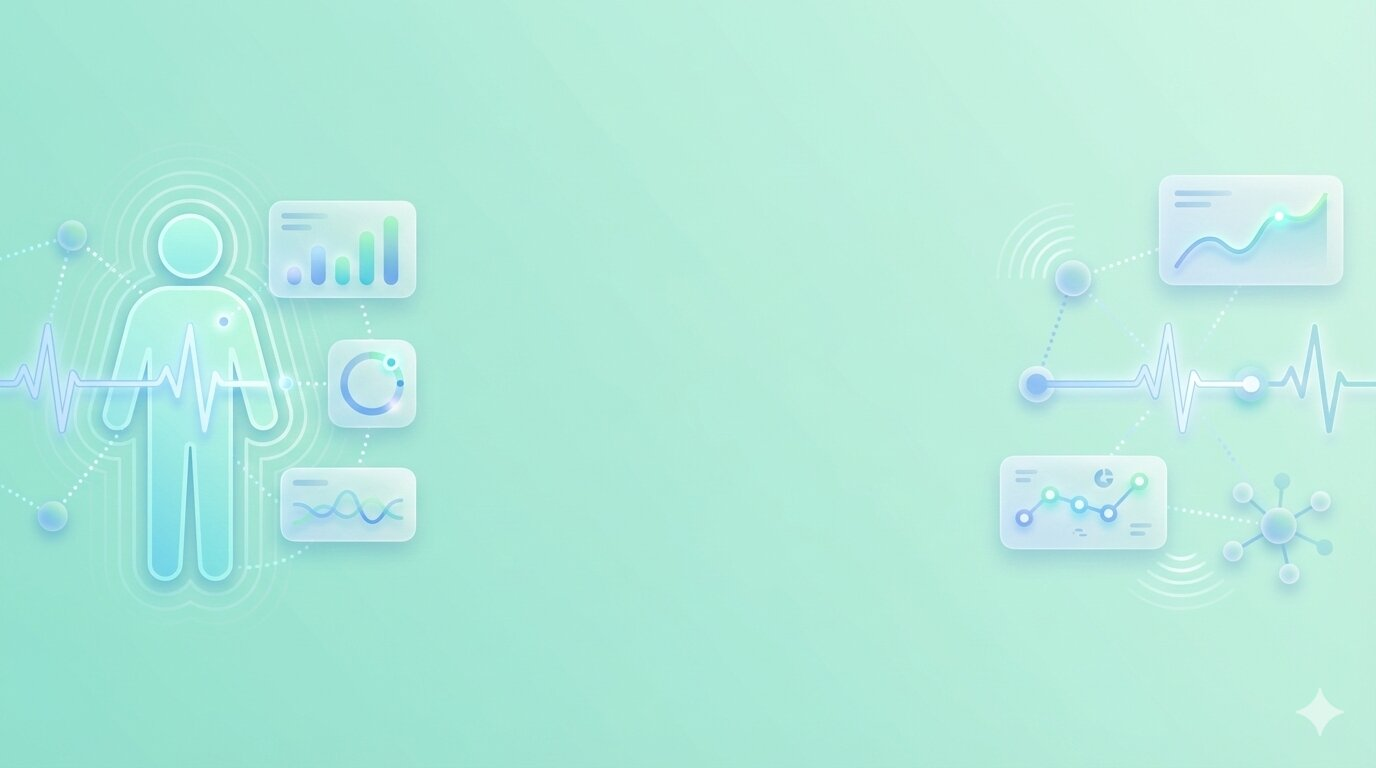
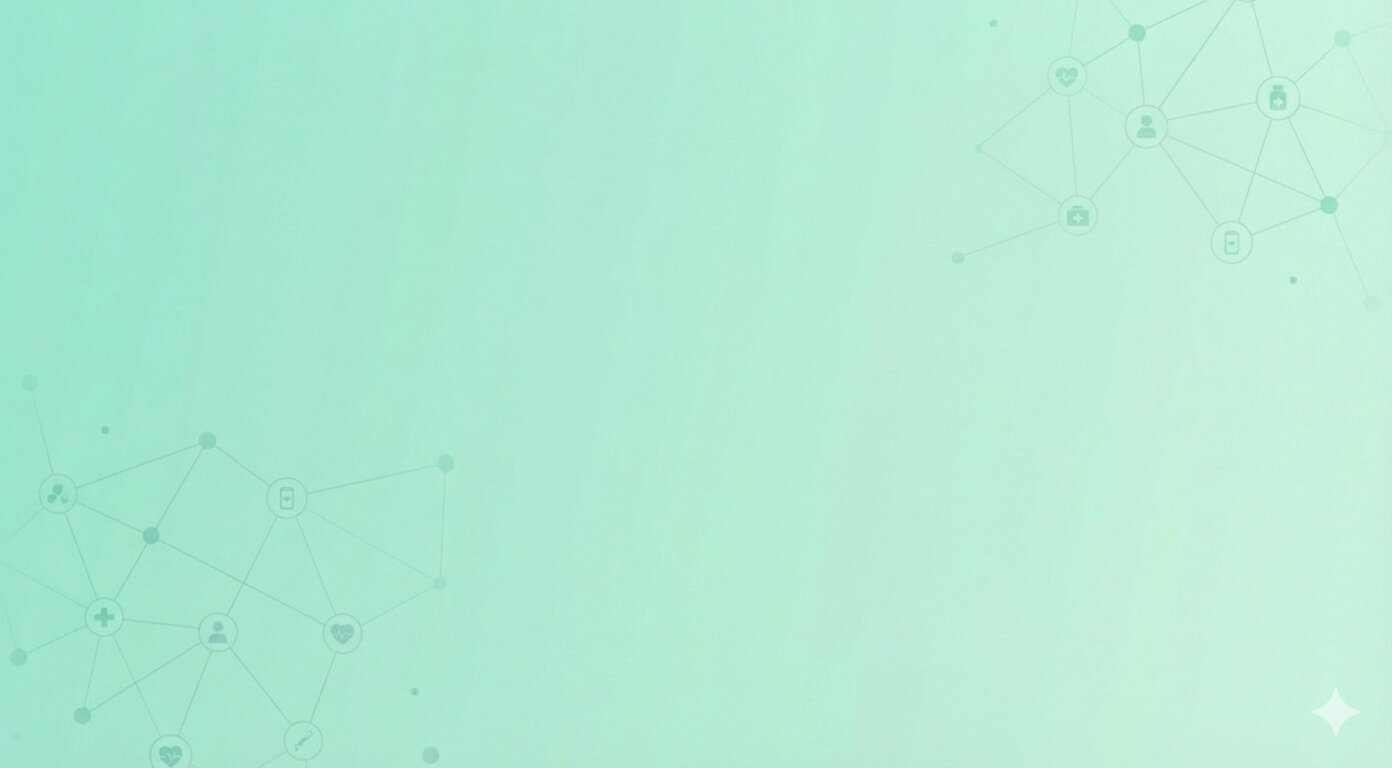
feat: Added grey out based on zod validation, changed bg and left panel, added responsivity to layout for small screens

diff --git a/frontend/src/components/login.tsx b/frontend/src/components/login.tsx
@@ -1,18 +1,47 @@
 "use client";
+
 import { useState } from "react";
 import Image from "next/image";
 import { motion, AnimatePresence, Variants } from "framer-motion";
 import { Logo } from "./logo";
+import { loginSchema } from "@/lib/constants";
 
 export default function LoginPage() {
   const [email, setEmail] = useState("");
   const [password, setPassword] = useState("");
 
+  const [errors, setErrors] = useState<{
+    email?: string;
+    password?: string;
+  }>({});
+
   const animationSpeed = 0.8;
+
+  // ✅ single source of truth (Zod)
+  const isFormValid = loginSchema.safeParse({
+    email,
+    password,
+  }).success;
 
   const handleLogin = (e: React.FormEvent) => {
     e.preventDefault();
-    console.log("Login attempt with:", { email, password });
+
+    const result = loginSchema.safeParse({
+      email,
+      password,
+    });
+
+    if (!result.success) {
+      const fieldErrors = result.error.flatten().fieldErrors;
+      setErrors({
+        email: fieldErrors.email?.[0],
+        password: fieldErrors.password?.[0],
+      });
+      return;
+    }
+
+    setErrors({});
+    console.log("Login attempt with:", result.data);
   };
 
   const containerVariants: Variants = {
@@ -38,18 +67,6 @@ export default function LoginPage() {
     },
   };
 
-  const blobVariants: Variants = {
-    hidden: { scale: 0.8, opacity: 0 },
-    visible: {
-      scale: 1,
-      opacity: 1,
-      transition: {
-        duration: 0.7 * animationSpeed,
-        ease: "easeOut",
-      },
-    },
-  };
-
   const buttonHoverVariants: Variants = {
     rest: { scale: 1 },
     hover: {
@@ -59,30 +76,19 @@ export default function LoginPage() {
     tap: { scale: 0.98 },
   };
 
-  const inputHoverVariants: Variants = {
-    rest: { boxShadow: "0 0 0 rgba(0, 0, 0, 0)" },
-    hover: {
-      boxShadow: "0 4px 12px rgba(0, 0, 0, 0.05)",
-      transition: { duration: 0.3 * animationSpeed, ease: "easeInOut" },
-    },
-  };
-
   return (
-    <main>
+    <main className="relative min-h-screen overflow-hidden">
       <AnimatePresence>
         <motion.div
-          key={"background"}
+          key="background"
           className="absolute inset-0 -z-10"
           initial={{ opacity: 0 }}
           animate={{ opacity: 1 }}
-          transition={{
-            duration: 1.2,
-            ease: "easeOut",
-          }}
+          transition={{ duration: 1.2, ease: "easeOut" }}
         >
           <Image
-            src={"/branding/login-bg.jpg"}
-            alt={`login Background`}
+            src="/branding/login-bg.jpg"
+            alt="Login background"
             fill
             priority
             className="object-cover"
@@ -96,158 +102,110 @@ export default function LoginPage() {
           variants={containerVariants}
           initial="hidden"
           animate="visible"
-          layoutId="authCard"
         >
+          {/* Left panel */}
           <div
-            className="relative w-2/5 p-8 flex flex-col justify-center overflow-hidden bg-cover bg-center"
+            className="hidden md:flex relative w-2/5 p-8 flex-col justify-center bg-cover bg-center"
             style={{
               backgroundImage: "url('/branding/login-div.jpg')",
-
-              backgroundColor: "rgba(0,0,0,0.2)",
               backgroundBlendMode: "overlay",
             }}
-          >
-            <motion.h1
-              className="text-4xl font-mono md:text-6xl lg:text-7xl font-bold text-white mb-4 relative z-10 leading-tight"
-              variants={itemVariants}
-            >
-              Welcome Back!
-            </motion.h1>
-          </div>
+          ></div>
 
-          <style jsx global>{`
-            @keyframes snakeMove {
-              0%,
-              100% {
-                transform: translate(0, 0);
-              }
-              20% {
-                transform: translate(15px, 15px);
-              }
-              40% {
-                transform: translate(-10px, 25px);
-              }
-              60% {
-                transform: translate(10px, 5px);
-              }
-              80% {
-                transform: translate(-5px, -15px);
-              }
-            }
-            @keyframes snakeFloat {
-              0%,
-              100% {
-                transform: translate(0, 0) rotate(0deg);
-              }
-              25% {
-                transform: translate(-15px, -20px) rotate(10deg);
-              }
-              50% {
-                transform: translate(10px, -30px) rotate(-5deg);
-              }
-              75% {
-                transform: translate(5px, -10px) rotate(5deg);
-              }
-            }
-          `}</style>
-
-          {/* Right side with login form */}
+          {/* Right panel */}
           <motion.div
-            className="w-3/5 p-10 flex flex-col justify-center"
+            className="w-full md:w-3/5 p-10 flex flex-col justify-center"
             variants={containerVariants}
           >
-            <div className="flex items-start">
+            <div className="flex items-start mb-6">
               <motion.div
-                className="flex justify-center mb-6"
-                initial={{ opacity: 0, scale: 0.8 }}
-                animate={{ opacity: 1, scale: 1 }}
-                transition={{ duration: 0.5, ease: "easeOut" }}
+                className="relative h-16 w-16 rounded-xl bg-gradient-to-br from-emerald-400 to-yellow flex items-center justify-center"
+                animate={{
+                  rotate: [0, 5, -5, 0],
+                  scale: [1, 1.05, 0.95, 1],
+                }}
+                transition={{
+                  duration: 4,
+                  ease: "easeInOut",
+                  repeat: Infinity,
+                  repeatType: "reverse",
+                }}
               >
-                <motion.div
-                  className="relative h-16 w-16 rounded-xl bg-gradient-to-br from-emerald-400 to-yellow flex items-center justify-center"
-                  animate={{
-                    rotate: [0, 5, -5, 0],
-                    scale: [1, 1.05, 0.95, 1],
-                  }}
-                  transition={{
-                    duration: 4,
-                    ease: "easeInOut",
-                    times: [0, 0.25, 0.75, 1],
-                    repeat: Infinity,
-                    repeatType: "reverse",
-                  }}
-                >
-                  <Logo />
-                </motion.div>
+                <Logo />
               </motion.div>
             </div>
 
             <motion.div className="mb-8" variants={itemVariants}>
-              <motion.h2 className="text-4xl text-gray-700 font-medium mb-3">
+              <h2 className="text-4xl text-gray-700 font-medium mb-2">
                 Dieton account
-              </motion.h2>
-              <motion.p className="text-xl text-gray-600">
-                Sign in to continue
-              </motion.p>
+              </h2>
+              <p className="text-xl text-gray-600">Sign in to continue</p>
             </motion.div>
 
             <form onSubmit={handleLogin} className="space-y-6">
-              <div className="space-y-4">
-                <motion.div variants={itemVariants}>
-                  <label className="block text-sm font-medium text-gray-700 mb-1">
-                    Email
-                  </label>
-                  <motion.div
-                    className="relative"
-                    variants={inputHoverVariants}
-                    initial="rest"
-                    whileHover="hover"
-                  >
-                    <input
-                      type="email"
-                      value={email}
-                      onChange={(e) => setEmail(e.target.value)}
-                      className="w-full px-4 py-3 bg-gray-50 border border-gray-200 rounded-lg focus:outline-none focus:ring-2 focus:ring-emerald-400 transition-all duration-300"
-                      placeholder="example@email.com"
-                      required
-                    />
-                  </motion.div>
-                </motion.div>
-
-                <motion.div variants={itemVariants}>
-                  <label className="block text-sm font-medium text-gray-700 mb-1">
-                    Password
-                  </label>
-                  <motion.div
-                    className="relative"
-                    variants={inputHoverVariants}
-                    initial="rest"
-                    whileHover="hover"
-                  >
-                    <input
-                      type="password"
-                      value={password}
-                      onChange={(e) => setPassword(e.target.value)}
-                      className="w-full px-4 py-3 bg-gray-50 border border-gray-200 rounded-lg focus:outline-none focus:ring-2 focus:ring-emerald-400 transition-all duration-300"
-                      placeholder="••••••••"
-                      required
-                    />
-                  </motion.div>
-                </motion.div>
-              </div>
-
+              {/* Email */}
               <motion.div variants={itemVariants}>
-                <motion.button
-                  type="submit"
-                  className="w-full flex justify-center py-3 px-4 rounded-lg shadow-sm text-base font-medium text-white bg-gradient-to-r from-emerald-400 to-emerald-300 hover:bg-emerald-500 transition-colors duration-200"
-                  variants={buttonHoverVariants}
-                  initial="rest"
-                  whileHover="hover"
-                  whileTap="tap"
-                >
-                  Sign in
-                </motion.button>
+                <label className="block text-sm font-medium text-gray-700 mb-1">
+                  Email
+                </label>
+                <input
+                  type="email"
+                  value={email}
+                  onChange={(e) => setEmail(e.target.value)}
+                  placeholder="example@email.com"
+                  className={`w-full px-4 py-3 rounded-lg border bg-gray-50 focus:outline-none focus:ring-2 transition
+                    ${
+                      errors.email
+                        ? "border-red-400 focus:ring-red-400"
+                        : "border-gray-200 focus:ring-emerald-400"
+                    }`}
+                />
+                {errors.email && (
+                  <p className="text-sm text-red-500 mt-1">{errors.email}</p>
+                )}
               </motion.div>
+
+              {/* Password */}
+              <motion.div variants={itemVariants}>
+                <label className="block text-sm font-medium text-gray-700 mb-1">
+                  Password
+                </label>
+                <input
+                  type="password"
+                  value={password}
+                  onChange={(e) => setPassword(e.target.value)}
+                  placeholder="••••••••"
+                  className={`w-full px-4 py-3 rounded-lg border bg-gray-50 focus:outline-none focus:ring-2 transition
+                    ${
+                      errors.password
+                        ? "border-red-400 focus:ring-red-400"
+                        : "border-gray-200 focus:ring-emerald-400"
+                    }`}
+                />
+                {errors.password && (
+                  <p className="text-sm text-red-500 mt-1">{errors.password}</p>
+                )}
+              </motion.div>
+
+              {/* Submit */}
+              <motion.button
+                type="submit"
+                disabled={!isFormValid}
+                variants={buttonHoverVariants}
+                initial="rest"
+                whileHover={isFormValid ? "hover" : undefined}
+                whileTap={isFormValid ? "tap" : undefined}
+                className={`w-full flex justify-center py-3 px-4 rounded-lg shadow-sm text-base font-medium text-white
+                  bg-gradient-to-r from-emerald-400 to-emerald-300
+                  transition-opacity
+                  ${
+                    isFormValid
+                      ? "opacity-100 cursor-pointer"
+                      : "opacity-50 cursor-not-allowed"
+                  }`}
+              >
+                Sign in
+              </motion.button>
             </form>
           </motion.div>
         </motion.div>
